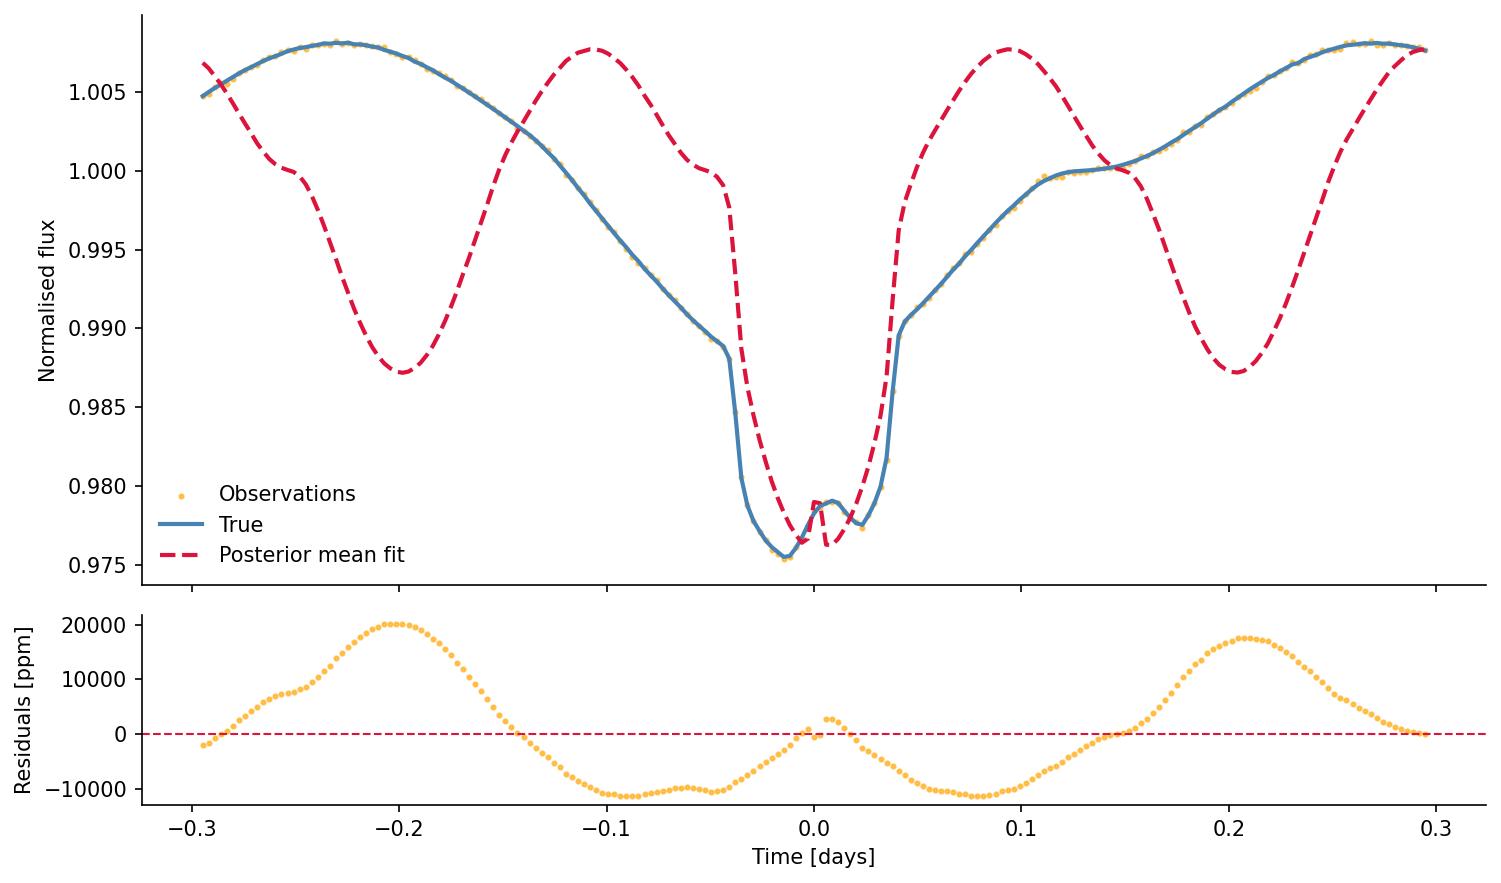
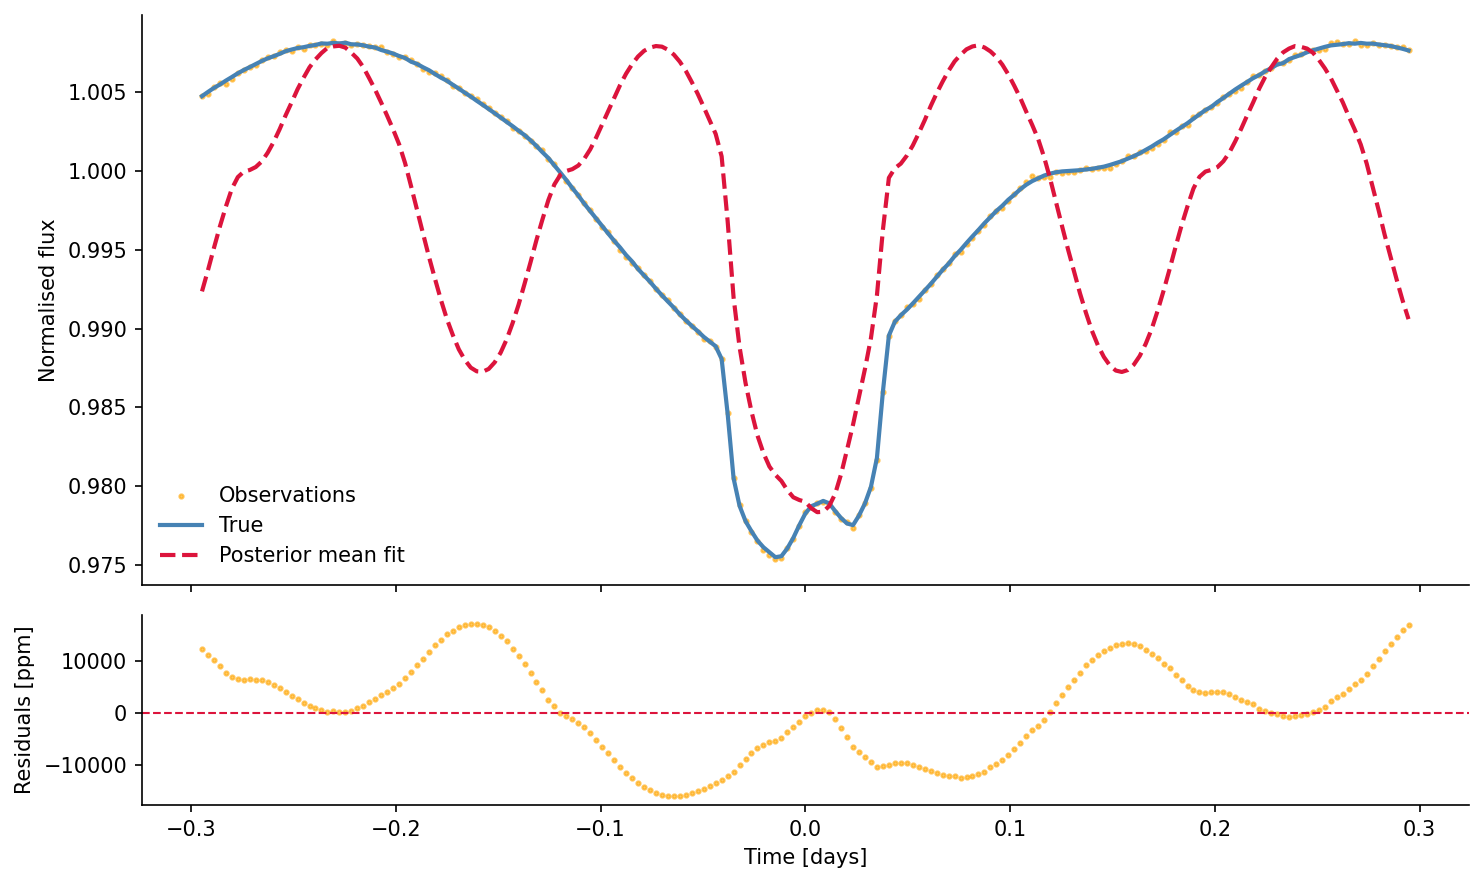
more debugging

diff --git a/sajax/src/model.py b/sajax/src/model.py
@@ -134,7 +134,7 @@ PRIOR_DISTRIBUTIONS = {
     "fac_long":      dist.Uniform(160.0, 170.0),
     "fac_size":      dist.Uniform(15.0, 17.0),
     "fac_flux":      dist.Uniform(1.05, 1.15),
-    "p_rot":         dist.Normal(TRUE_P_ROT, 1.0),
+    "p_rot":         dist.Normal(TRUE_P_ROT, 0.000001),
     "planet_radius": dist.Uniform(0.095, 0.15),
     "semimajor_axis":dist.Uniform(4.0, 4.5),
     "inclination":   dist.Uniform(89.0, 91.0),
@@ -795,10 +795,11 @@ def plot_model(filename: str = "spot_transit_light_curve.png"):
 
 
 def plot_bestfit_lightcurve(constrained_samples: dict, output_dir: Path):
-    """Plot posterior mean light curve vs truth and observations, save to output_dir."""
+    """Plot posterior mean and posterior maximum light curve vs truth and observations, save to output_dir."""
     mean_c = {name: float(np.array(v).mean()) for name, v in constrained_samples.items()}
+    max_c = {name: float(np.array(v).max()) for name, v in constrained_samples.items()}
 
-    lc_bestfit = np.array(
+    lc_mean = np.array(
         _call_sajax(
             TIMES,
             np.array([mean_c["spot_lat"], mean_c["fac_lat"]]),
@@ -817,20 +818,43 @@ def plot_bestfit_lightcurve(constrained_samples: dict, output_dir: Path):
         )["lc"]
     )
 
+    lc_max = np.array(
+        _call_sajax(
+            TIMES,
+            np.array([max_c["spot_lat"], max_c["fac_lat"]]),
+            np.array([max_c["spot_long"], max_c["fac_long"]]),
+            np.array([max_c["spot_size"], max_c["fac_size"]]),
+            np.stack([np.array([max_c["spot_flux"]]), np.array([max_c["fac_flux"]])]),
+            max_c["p_rot"],
+            max_c["planet_radius"],
+            max_c["semimajor_axis"],
+            np.deg2rad(max_c["inclination"]),
+            max_c["eccentricity"],
+            max_c["arg_periapsis"],
+            max_c["P_orb"],
+            max_c["ldc_u1"],
+            max_c["ldc_u2"],
+        )["lc"]
+    )
+
     fig, (ax_lc, ax_res) = plt.subplots(2, 1, figsize=(10, 6), sharex=True,
                                          gridspec_kw={"height_ratios": [3, 1]})
     ax_lc.scatter(TIMES, OBS_LIGHT_CURVE, s=4, color="orange", alpha=0.6,
                   label="Observations", zorder=1)
     ax_lc.plot(TIMES, LC_TRUE, lw=2, color="steelblue", label="True", zorder=2)
-    ax_lc.plot(TIMES, lc_bestfit, lw=2, color="crimson", linestyle="--",
+    ax_lc.plot(TIMES, lc_mean, lw=2, color="crimson", linestyle="--",
                label="Posterior mean fit", zorder=3)
+    ax_lc.plot(TIMES, lc_max, lw=2, color="darkgreen", linestyle="--",
+               label="Posterior maximum fit", zorder=4)
     ax_lc.set_ylabel("Normalised flux")
     ax_lc.legend(frameon=False)
     ax_lc.spines["top"].set_visible(False)
     ax_lc.spines["right"].set_visible(False)
 
-    residuals_ppm = (OBS_LIGHT_CURVE - lc_bestfit) * 1e6
-    ax_res.scatter(TIMES, residuals_ppm, s=4, color="orange", alpha=0.6)
+    mean_residuals_ppm = (OBS_LIGHT_CURVE - lc_mean) * 1e6
+    max_residuals_ppm = (OBS_LIGHT_CURVE - lc_max) * 1e6
+    ax_res.scatter(TIMES, mean_residuals_ppm, s=4, color="orange", alpha=0.6)
+    ax_res.scatter(TIMES, max_residuals_ppm, s=4, color="darkgreen", alpha=0.6)
     ax_res.axhline(0, color="crimson", lw=1, linestyle="--")
     ax_res.set_xlabel("Time [days]")
     ax_res.set_ylabel("Residuals [ppm]")

diff --git a/sajax/scripts/affinv.py b/sajax/scripts/affinv.py
@@ -36,6 +36,8 @@ from model import (
     OBS_LIGHT_CURVE,
     LC_TRUE,
     TIMES,
+    SIGMA_NOISE,
+    STATIC_MODEL,
 )
 
 AFFINV_OUTPUT_DIR = OUTPUT_DIR / "affinv"
@@ -154,6 +156,25 @@ def main(seed=0, save_outputs=True):
     for name in PARAM_NAMES:
         vals = np.array(coords_constrained[name])
         _print(f"  {name:20s}  " + "  ".join(f"{v:8.4f}" for v in vals))
+
+    def compute_chi2(constrained: dict, model_dict: dict = STATIC_MODEL) -> float:
+        """Reduced chi-squared (obs vs model) for a set of constrained parameters."""
+        # Ensure all derived quantities are present
+        c = dict(constrained)
+        if "eccentricity" not in c:
+            c["eccentricity"] = c["ecc_h"]**2 + c["ecc_k"]**2
+        if "arg_periapsis" not in c:
+            c["arg_periapsis"] = jnp.arctan2(c["ecc_k"], c["ecc_h"])
+        if "ldc_u1" not in c:
+            c["ldc_u1"] = 2 * jnp.sqrt(c["ldc_q1"]) * c["ldc_q2"]
+        if "ldc_u2" not in c:
+            c["ldc_u2"] = jnp.sqrt(c["ldc_q1"]) * (1 - 2 * c["ldc_q2"])
+        
+        lc = compute_lc_from_constrained(c, model_dict)
+        n = len(TIMES)
+        return float(jnp.sum(((jnp.array(OBS_LIGHT_CURVE) - lc) / SIGMA_NOISE) ** 2) / n)
+    chi2_truth = compute_chi2(GROUND_TRUTH)
+    print(f"χ² at ground truth: {chi2_truth}")
 
     # --- Initialize sampler ---
     sampler = emcee_jax.EnsembleSampler(log_density_flat)